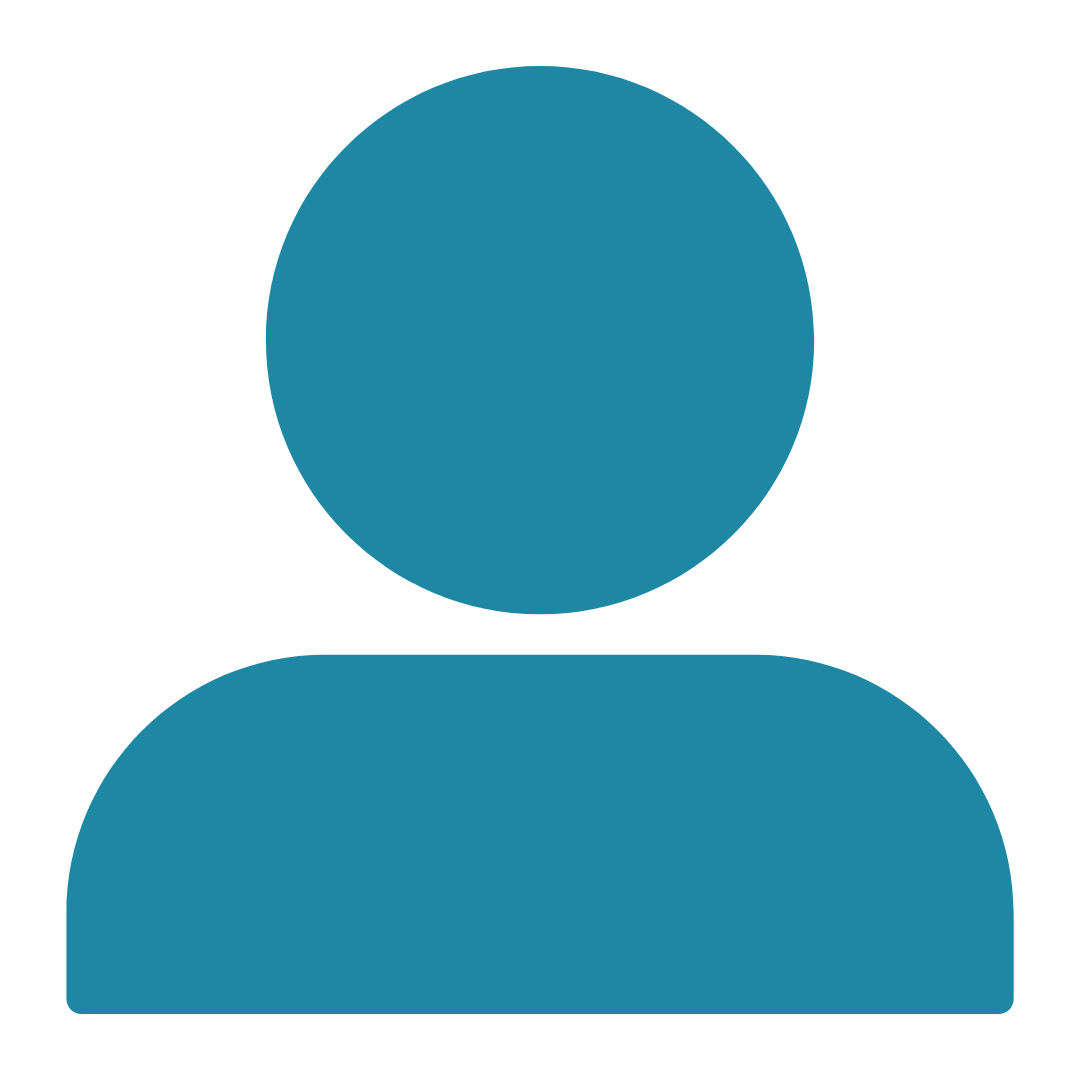
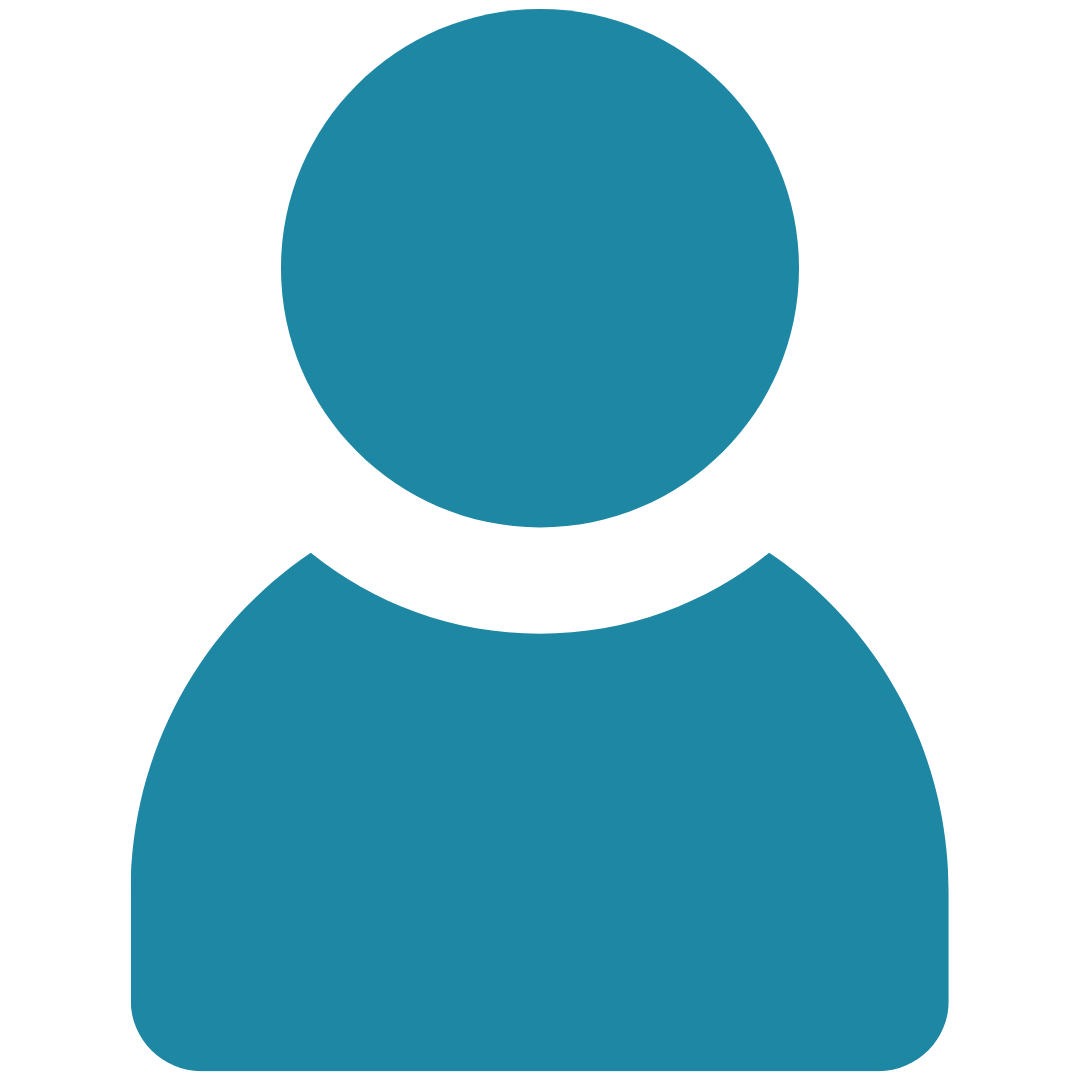
'minha conta' da barra superior finalizado

Changed region(s): [[0.0611, 0.2444, 0.9472, 1.0], [0.275, 0.0, 0.7333, 0.2139], [0.2444, 0.1833, 0.275, 0.2139]]

diff --git a/Pagina_Inicial/inicio_style.css b/Pagina_Inicial/inicio_style.css
@@ -74,6 +74,7 @@ body {
 
 }
 
+/* LOGO */
 .logo-area {
     display: flex;
     align-items: center;
@@ -84,14 +85,15 @@ body {
     height: 50px;
 }
 
+/* INSTITUIÇÃO*/
 .faculdade-area {
     position: absolute;
-    top: 50%; /* ajuste pra centralizar na topbar se quiser */
+    top: 50%;                                           /* ajuste pra centralizar na topbar se quiser */
     left: 50%;
     transform: translate(-50%, -50%);
     display: flex;
     align-items: center;
-    gap: 10px; /* espaço entre texto e caixa */
+    gap: 10px;                                          /* espaço entre texto e caixa */
 }
 
 /* caixa arredondada no centro */
@@ -124,4 +126,95 @@ body {
     font-weight: 500;
     color: #000000;
     font-size: 14px;
+}
+
+/* MINHA CONTA */
+
+.user-menu {
+    position: absolute;
+    right: 25px;   /* distância da borda direita */
+    top: 50%;
+    transform: translateY(-50%);
+    display: flex;
+    align-items: center;
+    gap: 10px; /* espaço entre ícone e texto */
+    font-style: bold;
+}
+
+/* ícone */
+.pessoa-icon {
+    width: 18px;
+    height: 18px;
+}
+
+/* botão de clique/hover */
+.user-btn {
+    font-weight: 600;
+    cursor: pointer;
+}
+
+/* menu suspenso */
+
+.dropdown {
+    position: absolute;
+    top: 23px;
+    right: 0;
+    background: white;
+    border: 1px solid #cccccc;
+    border-radius: 0 0 10px 10px;
+    box-shadow: 0 0 6px rgba(0,0,0,.15);
+    list-style: none;
+    padding: 5px 10px;
+    width: 150px;
+
+    /* animação */
+    opacity: 0;
+    transform: translateY(-8px);
+    pointer-events: none;
+    transition: opacity 0.2s ease, transform 0.2s ease;
+}
+
+/* itens */
+.dropdown li {
+    width: 100%;
+}
+
+.dropdown a {
+    position: relative;      /* ✅ necessário p/ o ícone absolute */
+    text-decoration: none;
+    color: #000000;
+    display: block;
+    padding: 10px;
+    padding-left: 35px;      /* espaço para o ícone */
+    border-radius: 50px;
+    transition: background 0.3s;
+    font-size: 10px;
+}
+
+
+.dropdown a:hover {
+    color: #1e87a3;
+    border-radius: 50px;
+}
+
+/* MOSTRAR menu ao passar mouse */
+.user-menu.open .dropdown {
+    opacity: 1;
+    transform: translateY(0);
+    pointer-events: auto;
+}
+
+.dropdown p {
+    font-size: 9px;
+    color: #414141;
+}
+
+
+.minha-conta-icon {
+    position: absolute; 
+    left: 12px;
+    top: 50%;                /* ✅ faltava */
+    transform: translateY(-50%);
+    width: 15px;
+    height: 15px;
 }

diff --git a/Pagina_Inicial/inicio.html b/Pagina_Inicial/inicio.html
@@ -48,8 +48,28 @@
             </div>
         </div>
 
+        <div class="user-menu">
+            <img src="../images/icone_pessoa.png" alt="Ícone Pessoa" class="pessoa-icon">
+            <span id="user-btn" class="user-btn">Olá, Sara!  ▼</span>
+
+            <ul class="dropdown">
+                <li><p>SARA FERNANDES MONTEIRO</p></li>
+                <li><a href="#">
+                    <img src="../images/icone_pessoa.png" alt="Ícone Pessoa" class="minha-conta-icon">
+                    Minha Conta
+                    </a>
+                </li>
+
+                <li><a href="#">
+                    <img src="../images/icone_sair.png" alt="Ícone Pessoa" class="minha-conta-icon">
+                    Sair
+                    </a>
+                </li>
+
+            </ul>
+        </div>
 
     </header>
-
+    <script src="inicio.js"></script>
 </body>
 </html>

diff --git a/Pagina_Inicial/inicio.js b/Pagina_Inicial/inicio.js
@@ -1,0 +1,14 @@
+const userMenu = document.querySelector('.user-menu');
+const userBtn = document.querySelector('#user-btn');
+
+userBtn.addEventListener('click', () => {
+    userMenu.classList.toggle('open');
+});
+
+//FECHAR SE CLICAR FORA
+
+document.addEventListener('click', (e) => {
+    if (!userMenu.contains(e.target)) {
+        userMenu.classList.remove('open');
+    }
+})

diff --git a/Login/style.css b/Login/style.css
@@ -71,7 +71,7 @@ ul li {
     line-height: 1;
     display: block;
     color:red;
-    font-size: 0.9em;
+    font-size: 10px;
 }
 
 /*-------------------FORMULÁRIO E INPUTS*/

diff --git a/Login/login.html b/Login/login.html
@@ -35,7 +35,7 @@
     <div class="container">
 
 
-        <img src="logo_NotaDez.png">
+        <img src="../images/logo_NotaDez.png">
 
         <form id="formulario">
 
